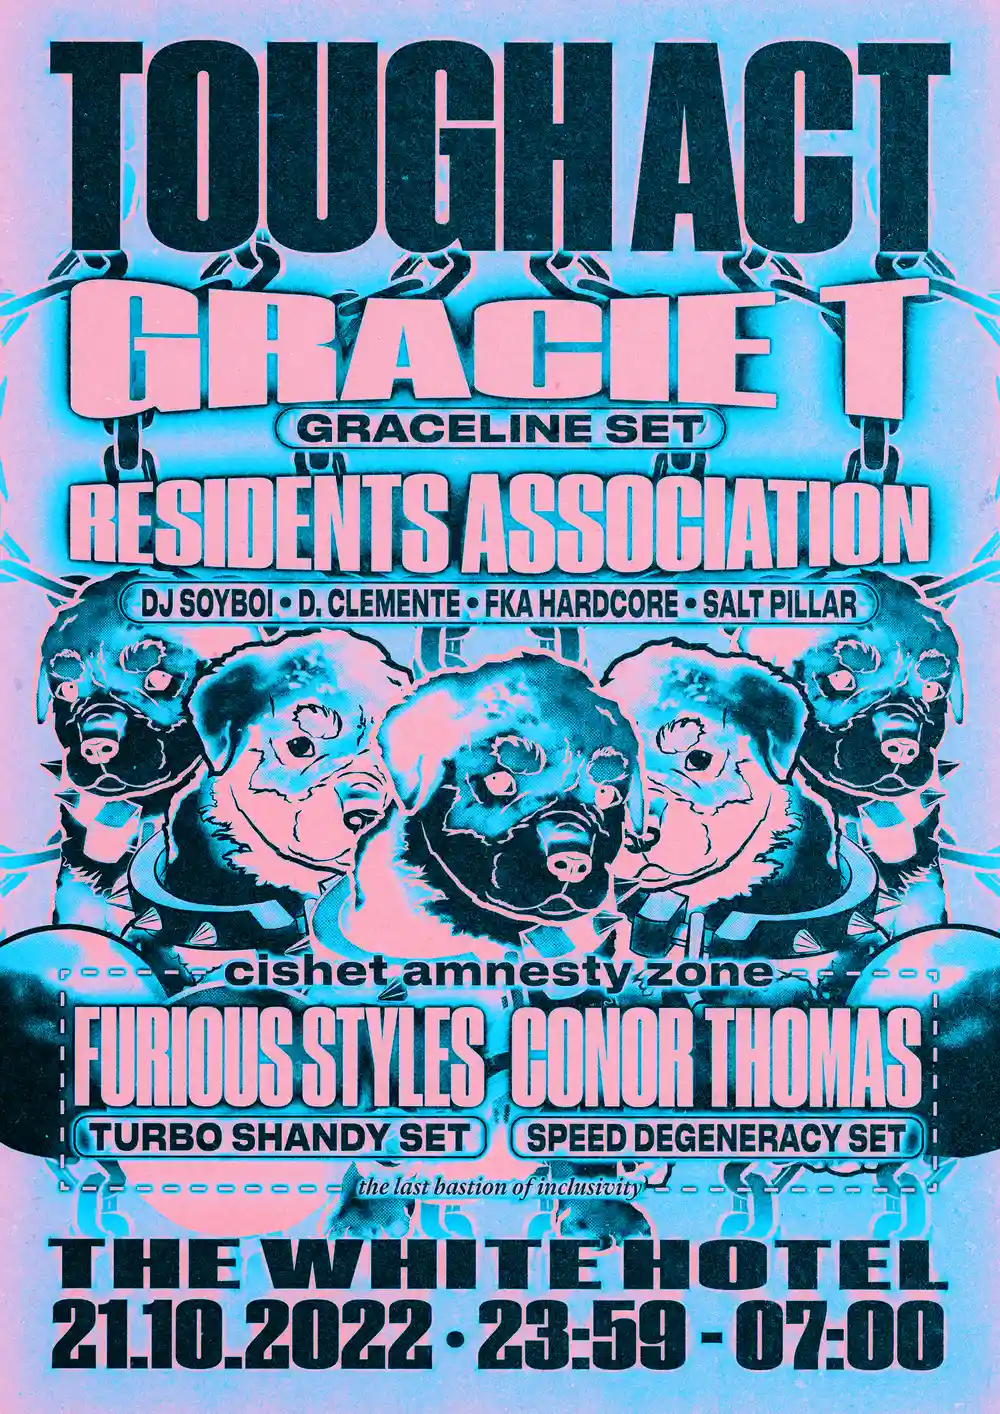
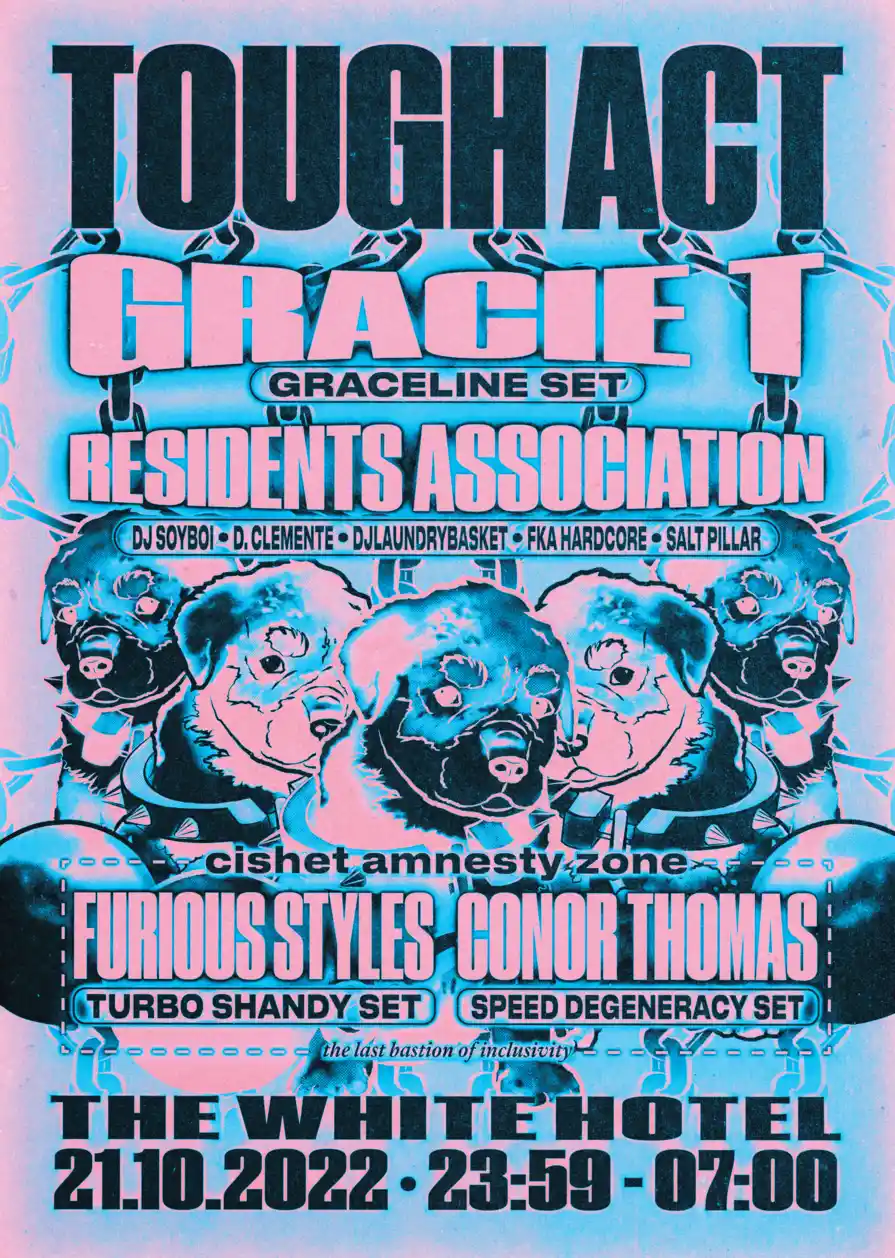
add djlb

diff --git a/index.html b/index.html
@@ -53,7 +53,7 @@
 
     <h2 id="TA004">tough act #4
         <br> with
-        <span class="block">Gracie T <span class="fancy block">(graceline set)</span>, </span>
+        <span class="block">gracie t <span class="fancy block">(graceline set)</span>, </span>
         <span class="block">furious styles <span class="fancy block">(turbo shandy set)</span>, </span>
         <span class="block">conor thomas <span class="fancy block">(speed degeneracy set)</span>, </span>
         and the tough act resident's association
